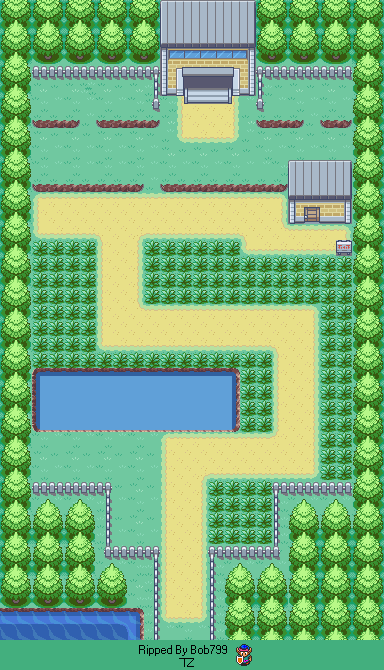
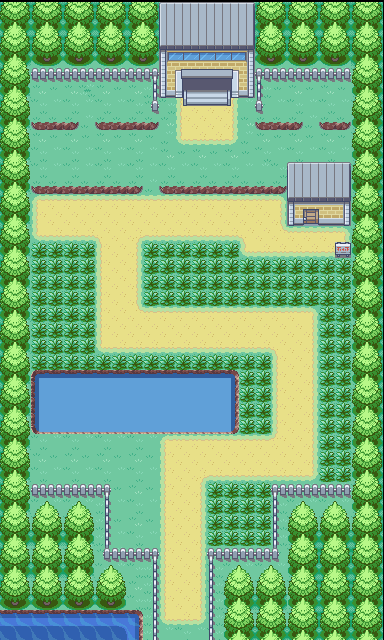
added camera movement

diff --git a/Overworld.js b/Overworld.js
@@ -11,19 +11,24 @@ class Overworld {
       // clear the canvas
       this.ctx.clearRect(0, 0, this.canvas.width, this.canvas.height);
 
+      // camera focus
+      const cameraFocus = this.map.gameObjects.player;
+
+      // update all objects
+      Object.values(this.map.gameObjects).forEach((object) => {
+        object.update({ vector: this.directionInput.direction });
+      });
+
       // draw the bottom layer
-      this.map.drawLowerImage(this.ctx);
+      this.map.drawLowerImage(this.ctx, cameraFocus);
 
       // draw any game objects
       Object.values(this.map.gameObjects).forEach((object) => {
-        object.update({
-          vector: this.directionInput.direction,
-        });
-        object.sprite.draw(this.ctx);
+        object.sprite.draw(this.ctx, cameraFocus);
       });
 
       // draw the upper layer
-      this.map.drawUpperImage(this.ctx);
+      this.map.drawUpperImage(this.ctx, cameraFocus);
 
       requestAnimationFrame(() => {
         step();

diff --git a/Sprite.js b/Sprite.js
@@ -74,9 +74,9 @@ class Sprite {
     }
   }
 
-  draw(ctx) {
-    const x = this.gameObject.x - 17;
-    const y = this.gameObject.y - 20;
+  draw(ctx, cameraFocus) {
+    const x = this.gameObject.x - 17 + utils.withGrid(13) - cameraFocus.x;
+    const y = this.gameObject.y - 20 + utils.withGrid(8) - cameraFocus.y;
     const xOffset = this.gameObject.xOffset;
     const yOffset = this.gameObject.yOffset;
 
@@ -85,8 +85,8 @@ class Sprite {
     if (this.isLoaded) {
       ctx.drawImage(
         this.image, // which image to load.
-        xOffset + 16 * frameX, // sprite sheet x position
-        yOffset + 14 * frameY, // sprite sheet y position
+        xOffset + 16 * frameX, // sprite sheet x position (16 is the width of each cell)
+        yOffset + 20 * frameY, // sprite sheet y position (20 is the height of each cell)
         16, // sprite width
         20, // sprite height
         x, // sprites x pos in the world

diff --git a/OverworldMap.js b/OverworldMap.js
@@ -9,12 +9,20 @@ class OverworldMap {
     this.upperImage.src = config.upperSrc;
   }
 
-  drawLowerImage(ctx) {
-    ctx.drawImage(this.lowerImage, 0, 0);
+  drawLowerImage(ctx, cameraFocus) {
+    ctx.drawImage(
+      this.lowerImage,
+      utils.withGrid(14) - cameraFocus.x,
+      utils.withGrid(8) - cameraFocus.y
+    );
   }
 
-  drawUpperImage(ctx) {
-    ctx.drawImage(this.upperImage, 0, 0);
+  drawUpperImage(ctx, cameraFocus) {
+    ctx.drawImage(
+      this.upperImage,
+      utils.withGrid(13) - cameraFocus.x,
+      utils.withGrid(8) - cameraFocus.y
+    );
   }
 }
 
@@ -24,8 +32,8 @@ window.OverworldMaps = {
     upperSrc: "",
     gameObjects: {
       player: new Person({
-        x: utils.withGrid(7),
-        y: utils.withGrid(9),
+        x: utils.withGrid(14),
+        y: utils.withGrid(24),
         xOffset: 0,
         yOffset: 1,
         isPlayerControlled: true,

diff --git a/Person.js b/Person.js
@@ -21,7 +21,7 @@ class Person extends GameObject {
       state.vector
     ) {
       this.direction = state.vector;
-      this.movingProgressRemaining = 14;
+      this.movingProgressRemaining = 16;
     }
   }
 

diff --git a/utils.js b/utils.js
@@ -1,5 +1,5 @@
 const utils = {
   withGrid(n) {
-    return n * 14;
+    return n * 16;
   },
 };
